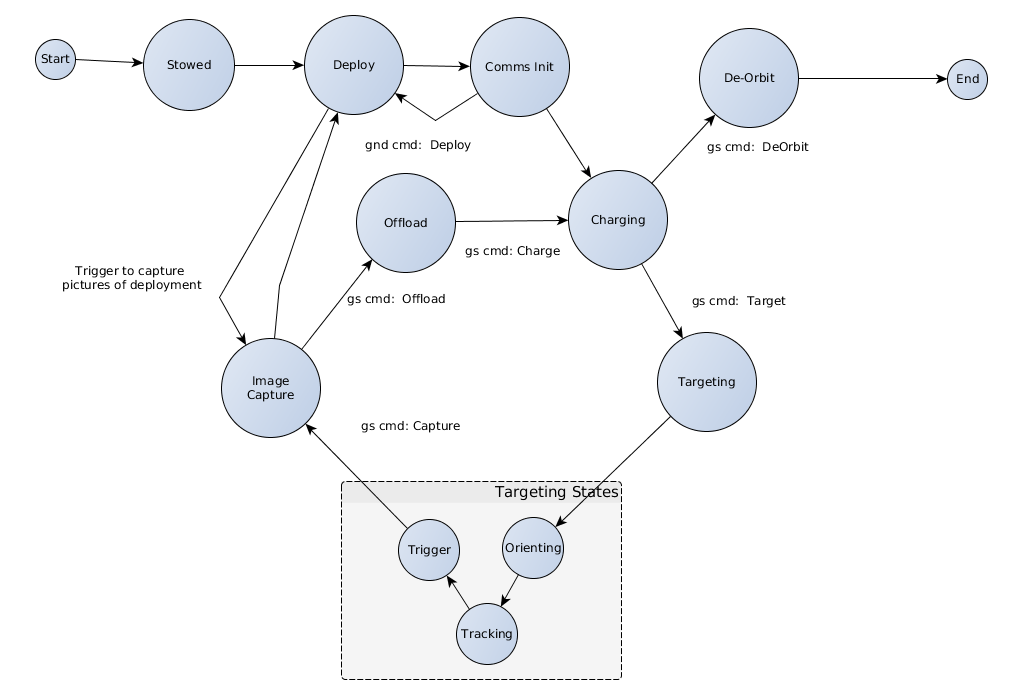
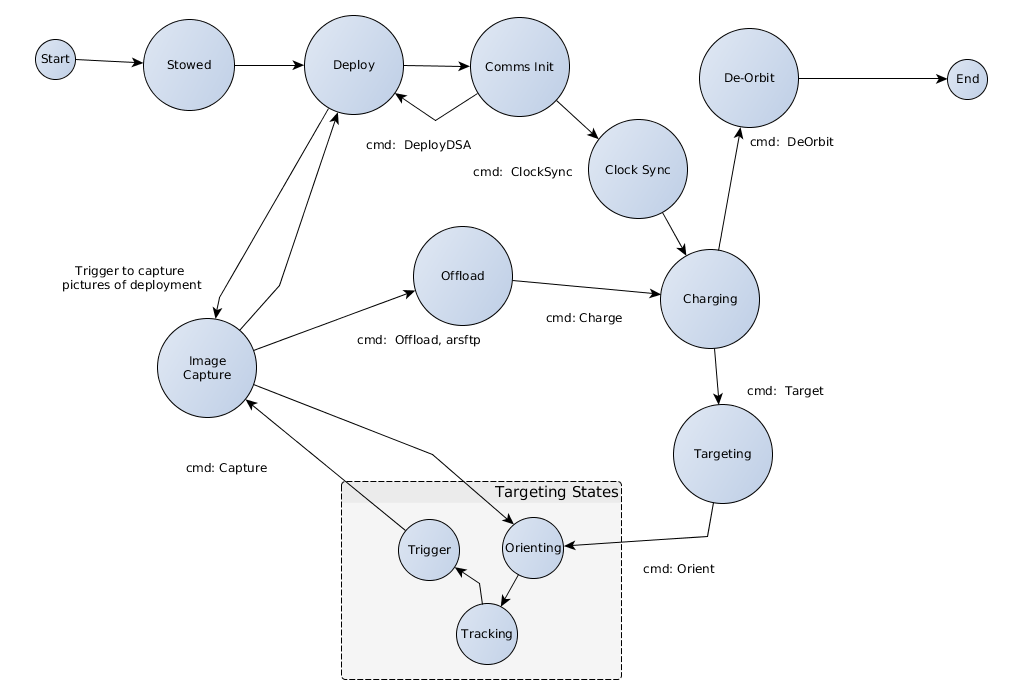
Update System States con-ops

diff --git a/doc/output/SystemStates.html b/doc/output/SystemStates.html
@@ -91,47 +91,53 @@ tooltip.style.display = "none";
 </script>
 
 <div class="tooltip" id="n0">In stowed mode, solar panels and antenna are stowed and the reset_satellite.sh script is executed to clear all persistent data.</div>
-<div class="tooltip" id="n1">- Antenna is released, <br>- DSA is released and deployed. <br>- ADCS is set to detumble to get the satellite stabilized.</div>
+<div class="tooltip" id="n1">@+30 min<br>- Antenna is released<br>- DSA is released and deployed. <br>@+45min<br>- Satcomm enabled<br>- Beacon transmits<br>- ADCS is set to detumble to get the satellite stabilized.</div>
 <div class="tooltip" id="n2">Capture N images at specified intervals, <br>Create thumbnails, store images and associated metadata.<br>Register thumbnails for offload queue</div>
 <div class="tooltip" id="n3">When Charging:<br>  - ADCS orients the satellite to point toward the Sun<br>  - shuts down payload power to minimize power usage.</div>
-<div class="tooltip" id="n4">ADCS orients the satellite for maximum friction.<br>Thrusters oriented appropriately to slow down and deorbit.</div>
-<div class="tooltip" id="n5">Use Magetorquers to orient -Z axis toward target.</div>
-<div class="tooltip" id="n6">Target is in clear view.  <br>Trigger image capture for specified time window and interval</div>
-<div class="tooltip" id="n7">Camera is pointing at the target, but not in clear view.<br>Magnetorquers used to maintain attitude.</div>
-<div class="tooltip" id="n8">Targeting States</div>
+<div class="tooltip" id="n4">- Collect all remaining data<br>- ADCS orients the satellite for maximum friction.</div>
+<div class="tooltip" id="n5">Targeting States</div>
+<div class="tooltip" id="n6">Use Magetorquers to orient -Z axis toward target.</div>
+<div class="tooltip" id="n7">Target is in clear view.  <br>Trigger image capture for specified time window and interval</div>
+<div class="tooltip" id="n8"> - Star Tracker used to determine orientation<br> - Magnetorquers used to maintain or adjust attitude.</div>
 <div class="tooltip" id="n9">ADCS orients the platform to point the camera in the direction of a designated target</div>
-<div class="tooltip" id="n10">Offload Telemetry Data, Thumbnails, Images.<br>Automatic offload includes thumbnails and telemetry.<br>Commanded offload for individual images.</div>
+<div class="tooltip" id="n10"> - Collect data for offload<br> - Offload Telemetry Data, Thumbnails, Images.<br> - arsftp commands</div>
 <div class="tooltip" id="n11">Satcomm initialized and beacons transmitting<br>Manual Deployment commands if necessary</div>
 <div class="tooltip" id="n12">Start</div>
 <div class="tooltip" id="n13">End</div>
-<div class="tooltip" id="e2">gs cmd: Capture</div>
-<div class="tooltip" id="e3">gs cmd:  Target</div>
-<div class="tooltip" id="e5">gs cmd:  Offload</div>
-<div class="tooltip" id="e6">gs cmd:  DeOrbit</div>
-<div class="tooltip" id="e7">gs cmd: Charge</div>
+<div class="tooltip" id="n14">Satcomm initialized and beacons transmitting<br>Manual Deployment commands if necessary</div>
+<div class="tooltip" id="e0">cmd: Orient</div>
+<div class="tooltip" id="e2">cmd: Capture</div>
+<div class="tooltip" id="e3">cmd:  Target</div>
+<div class="tooltip" id="e5">cmd:  Offload, arsftp</div>
+<div class="tooltip" id="e6">cmd:  DeOrbit</div>
+<div class="tooltip" id="e7">cmd: Charge</div>
+<div class="tooltip" id="e8">cmd:  ClockSync</div>
 <div class="tooltip" id="e11">Trigger to capture <br>pictures of deployment</div>
-<div class="tooltip" id="e15">gnd cmd:  Deploy</div>
+<div class="tooltip" id="e15">cmd:  DeployDSA</div>
 
 <map name="image1_1">
   <area shape="poly" coords="475,89,432,116,435,120,438,116,404,93,398,101,432,124,435,126,437,124,480,97,475,89,475,89" alt="" onmouseover="showTooltip('e15')" onmouseout="hideTooltip()"/>
-  <area shape="poly" coords="324,105,214,295,213,297,214,300,237,340,246,335,223,295,219,297,223,300,333,110,324,105,324,105" alt="" onmouseover="showTooltip('e11')" onmouseout="hideTooltip()"/>
-  <area shape="poly" coords="455,226,560,225,560,215,455,216,455,226,455,226" alt="" onmouseover="showTooltip('e7')" onmouseout="hideTooltip()"/>
-  <area shape="poly" coords="655,186,713,123,706,117,648,179,655,186,655,186" alt="" onmouseover="showTooltip('e6')" onmouseout="hideTooltip()"/>
-  <area shape="poly" coords="305,352,371,268,363,262,297,346,305,352,305,352" alt="" onmouseover="showTooltip('e5')" onmouseout="hideTooltip()"/>
-  <area shape="poly" coords="637,265,674,334,683,329,646,260,637,265,637,265" alt="" onmouseover="showTooltip('e3')" onmouseout="hideTooltip()"/>
-  <area shape="poly" coords="411,524,314,425,307,432,404,531,411,524,411,524" alt="" onmouseover="showTooltip('e2')" onmouseout="hideTooltip()"/>
+  <area shape="poly" coords="324,105,214,295,214,296,214,296,211,310,221,311,223,298,219,297,223,300,333,110,324,105,324,105" alt="" onmouseover="showTooltip('e11')" onmouseout="hideTooltip()"/>
+  <area shape="poly" coords="552,103,589,137,596,130,559,96,552,103,552,103" alt="" onmouseover="showTooltip('e8')" onmouseout="hideTooltip()"/>
+  <area shape="poly" coords="511,285,652,298,653,288,512,275,511,285,511,285" alt="" onmouseover="showTooltip('e7')" onmouseout="hideTooltip()"/>
+  <area shape="poly" coords="723,251,744,135,734,134,714,249,723,251,723,251" alt="" onmouseover="showTooltip('e6')" onmouseout="hideTooltip()"/>
+  <area shape="poly" coords="255,355,409,297,406,288,251,345,255,355,255,355" alt="" onmouseover="showTooltip('e5')" onmouseout="hideTooltip()"/>
+  <area shape="poly" coords="709,348,713,397,723,396,719,348,709,348,709,348" alt="" onmouseover="showTooltip('e3')" onmouseout="hideTooltip()"/>
+  <area shape="poly" coords="408,527,254,400,248,408,402,534,408,527,408,527" alt="" onmouseover="showTooltip('e2')" onmouseout="hideTooltip()"/>
+  <area shape="poly" coords="708,502,702,535,707,536,706,531,571,540,572,550,707,541,711,540,712,537,718,503,708,502,708,502" alt="" onmouseover="showTooltip('e0')" onmouseout="hideTooltip()"/>
+  <area shape="rect" coords="557,119,718,218" alt="" onmouseover="showTooltip('n14')" onmouseout="hideTooltip()"/>
   <area shape="rect" coords="927,59,1007,99" alt="" onmouseover="showTooltip('n13')" onmouseout="hideTooltip()"/>
   <area shape="rect" coords="15,39,95,79" alt="" onmouseover="showTooltip('n12')" onmouseout="hideTooltip()"/>
   <area shape="rect" coords="439,17,600,116" alt="" onmouseover="showTooltip('n11')" onmouseout="hideTooltip()"/>
-  <area shape="rect" coords="325,173,486,272" alt="" onmouseover="showTooltip('n10')" onmouseout="hideTooltip()"/>
-  <area shape="rect" coords="626,332,787,431" alt="" onmouseover="showTooltip('n9')" onmouseout="hideTooltip()"/>
-  <area shape="rect" coords="414,603,560,664" alt="" onmouseover="showTooltip('n7')" onmouseout="hideTooltip()"/>
-  <area shape="rect" coords="356,519,502,580" alt="" onmouseover="showTooltip('n6')" onmouseout="hideTooltip()"/>
-  <area shape="rect" coords="460,517,606,578" alt="" onmouseover="showTooltip('n5')" onmouseout="hideTooltip()"/>
-  <area shape="rect" coords="341,481,621,679" alt="" onmouseover="showTooltip('n8')" onmouseout="hideTooltip()"/>
+  <area shape="rect" coords="382,226,543,325" alt="" onmouseover="showTooltip('n10')" onmouseout="hideTooltip()"/>
+  <area shape="rect" coords="642,404,803,503" alt="" onmouseover="showTooltip('n9')" onmouseout="hideTooltip()"/>
+  <area shape="rect" coords="414,603,560,664" alt="" onmouseover="showTooltip('n8')" onmouseout="hideTooltip()"/>
+  <area shape="rect" coords="356,519,502,580" alt="" onmouseover="showTooltip('n7')" onmouseout="hideTooltip()"/>
+  <area shape="rect" coords="460,517,606,578" alt="" onmouseover="showTooltip('n6')" onmouseout="hideTooltip()"/>
+  <area shape="rect" coords="341,481,621,679" alt="" onmouseover="showTooltip('n5')" onmouseout="hideTooltip()"/>
   <area shape="rect" coords="668,28,829,127" alt="" onmouseover="showTooltip('n4')" onmouseout="hideTooltip()"/>
-  <area shape="rect" coords="537,170,698,269" alt="" onmouseover="showTooltip('n3')" onmouseout="hideTooltip()"/>
-  <area shape="rect" coords="190,338,351,437" alt="" onmouseover="showTooltip('n2')" onmouseout="hideTooltip()"/>
+  <area shape="rect" coords="629,249,790,348" alt="" onmouseover="showTooltip('n3')" onmouseout="hideTooltip()"/>
+  <area shape="rect" coords="126,318,287,417" alt="" onmouseover="showTooltip('n2')" onmouseout="hideTooltip()"/>
   <area shape="rect" coords="273,15,434,114" alt="" onmouseover="showTooltip('n1')" onmouseout="hideTooltip()"/>
   <area shape="rect" coords="100,19,278,110" alt="" onmouseover="showTooltip('n0')" onmouseout="hideTooltip()"/>
 </map>
